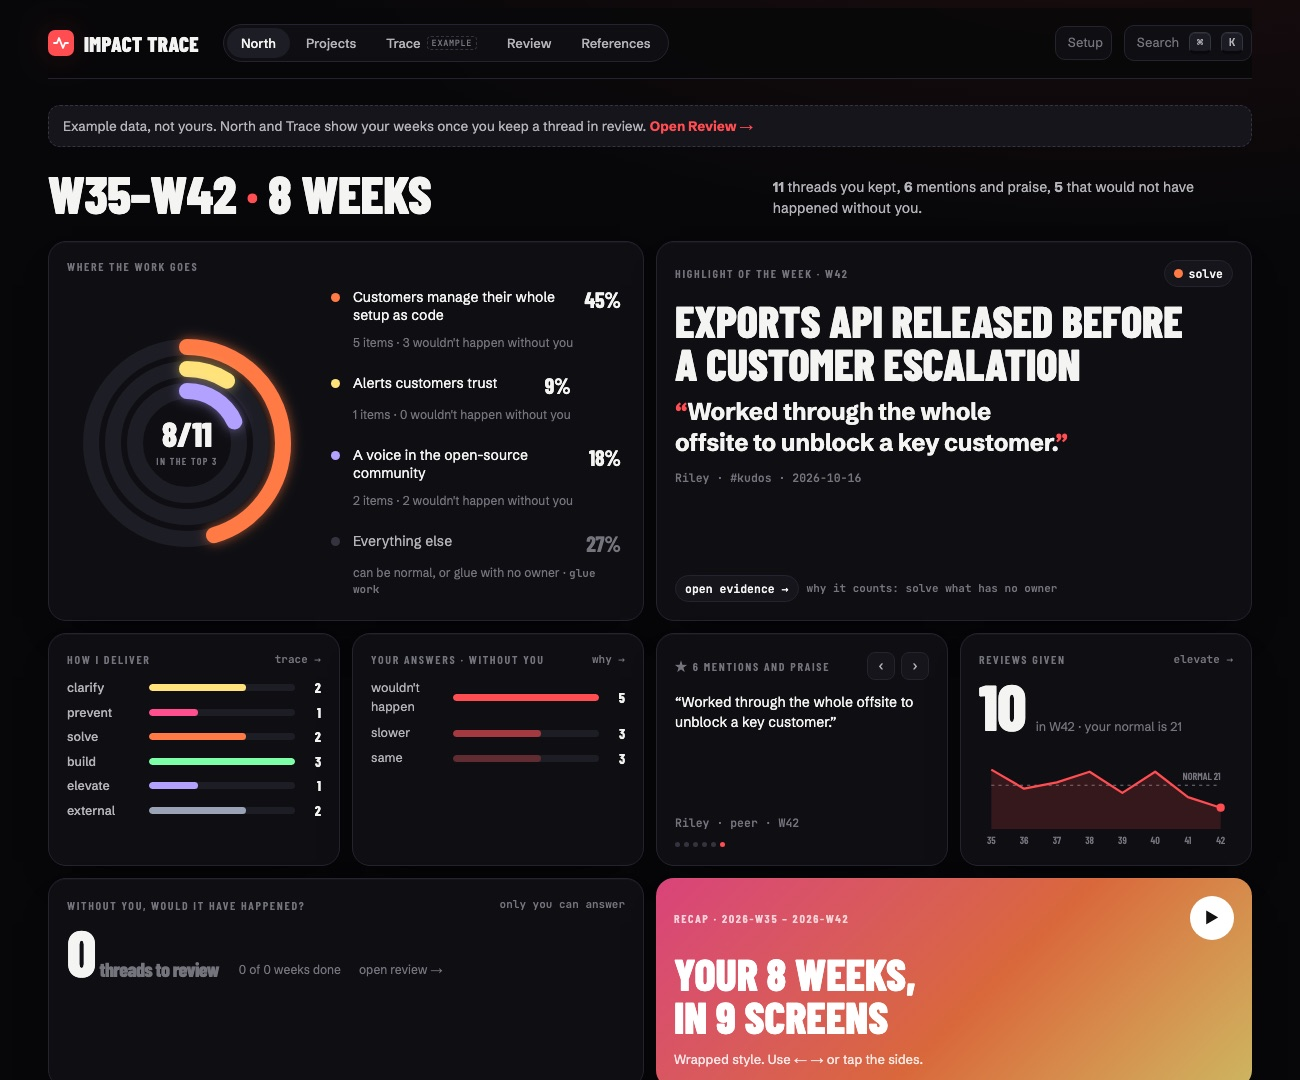
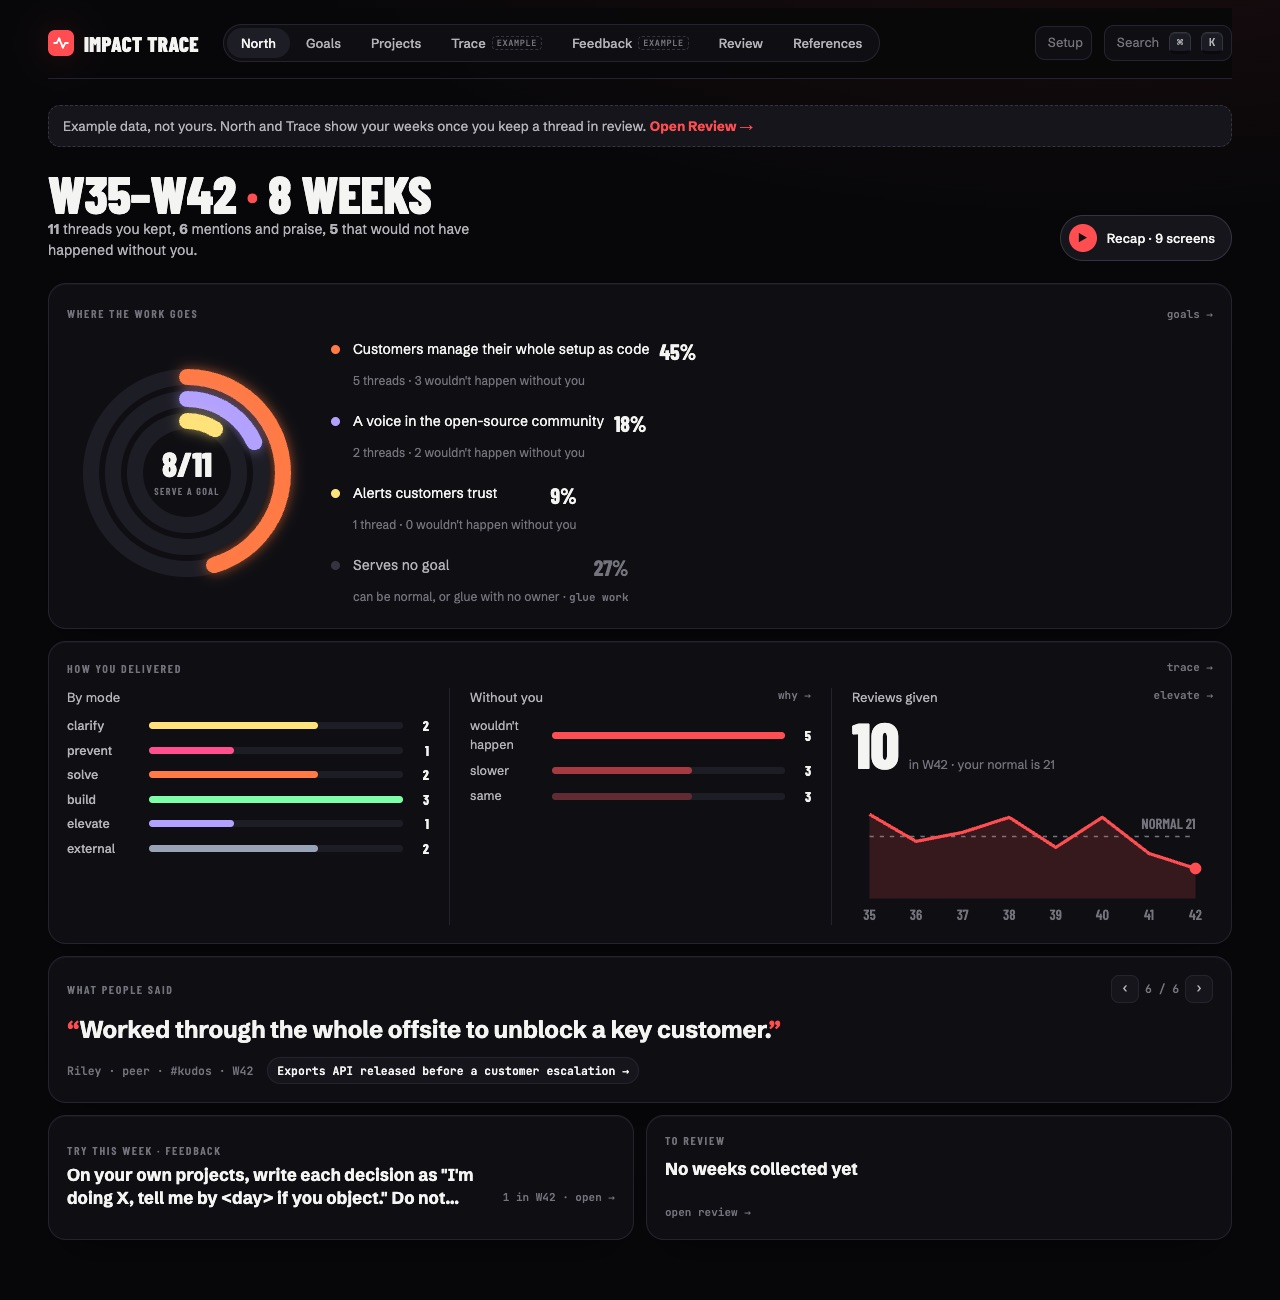
docs(north): four bands, with a new capture

diff --git a/docs/views.md b/docs/views.md
@@ -6,13 +6,14 @@ review they show fictional example data, marked "example".
 
 ## North
 
-Your week on one screen.
-- **Rings:** your [goals](goals.md), most served first, plus "serves no goal". Before you write
-  any goal, your top 3 projects stand in.
-- **Without you:** your own answers from review: wouldn't happen, slower, same.
-- **Highlight:** one thread from the last week. It prefers one you said would not happen
-  without you, and one with praise someone wrote.
-- **Try this week:** the current feedback experiment, unless you passed on it.
+One question per band, read top to bottom.
+- **Where the work goes:** a ring per [goal](goals.md), most served first, plus "serves no
+  goal". Before you write any goal, your top 3 projects stand in.
+- **How you delivered:** threads by mode, your own "without you" answers from review, and
+  reviews given against your normal.
+- **What people said:** one quote at a time, starting at the week's highlight (a thread you
+  said would not happen without you, with praise someone wrote).
+- **This week:** the current feedback experiment, and threads still waiting for review.
 
 ## Trace
 
